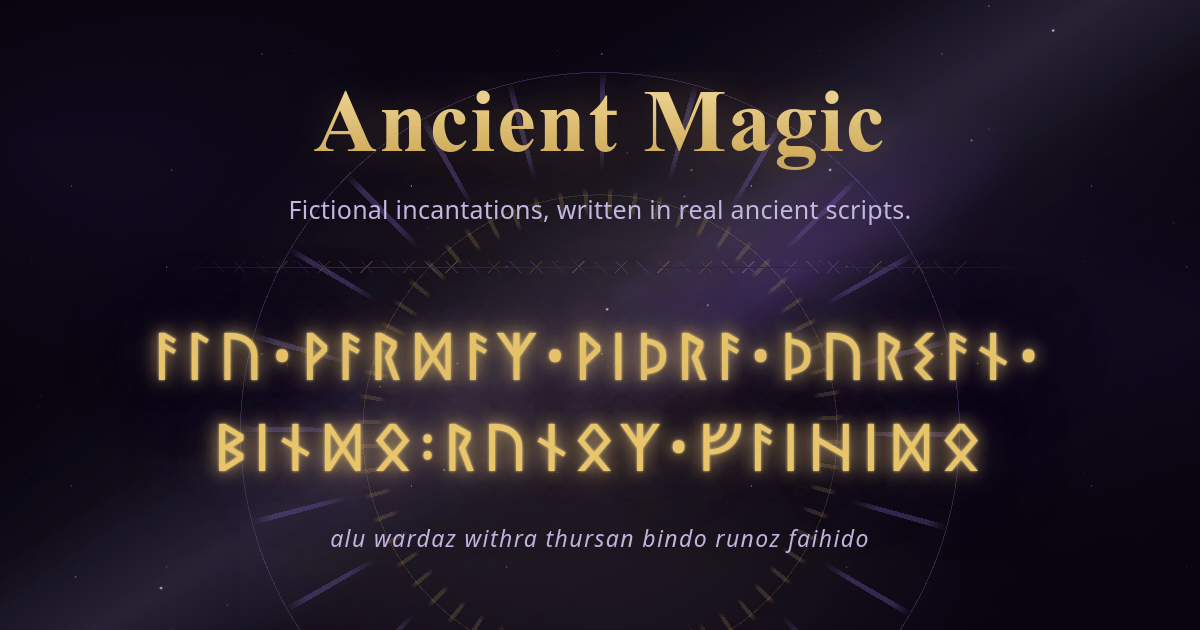
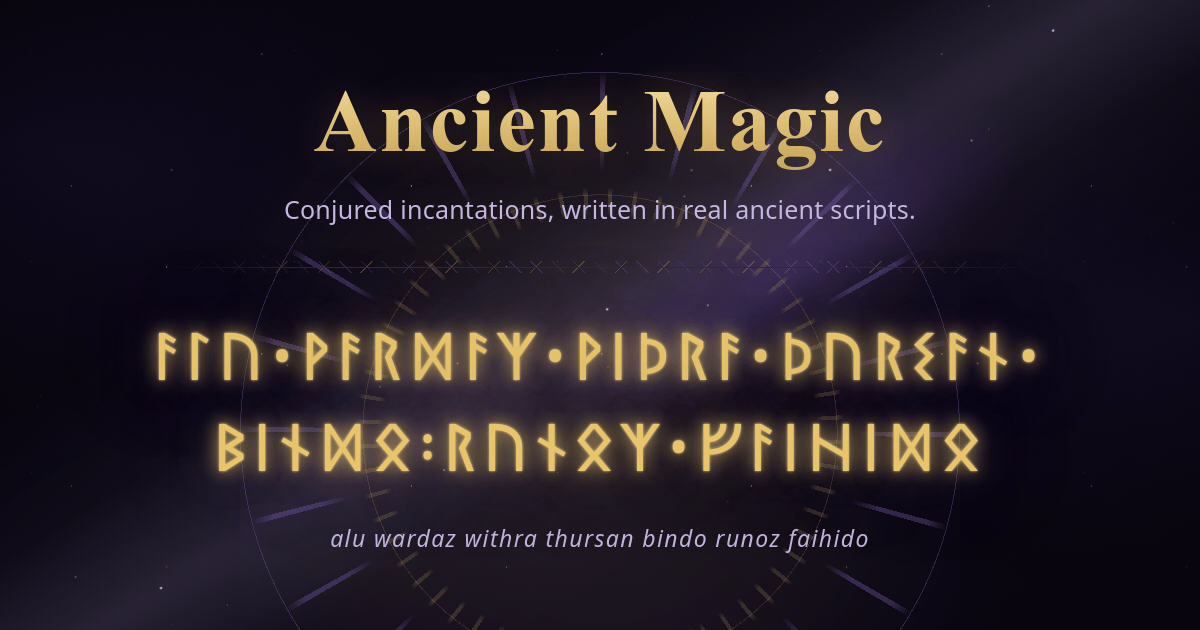
🐛 fix: conjured replaces fictional in the promise and titles

Changed region(s): [[0.2467, 0.3016, 0.7708, 0.3619]]

diff --git a/pub/index.html b/pub/index.html
@@ -3,13 +3,13 @@
 <head>
 <meta charset="utf-8">
 <meta name="viewport" content="width=device-width, initial-scale=1">
-<title>Ancient Magic, fictional incantations in real ancient scripts</title>
+<title>Ancient Magic, conjured incantations in real ancient scripts</title>
 <meta name="description" content="Pick a script, a school of magic and a difficulty, then read a fictional incantation written in real ancient glyphs, with its transliteration and a plain-language gloss.">
 <link rel="canonical" href="https://ancientmagic.iglou.eu/">
 <meta name="theme-color" content="#0B0714">
 
 <meta property="og:site_name" content="Ancient Magic">
-<meta property="og:title" content="Ancient Magic, fictional incantations in real ancient scripts">
+<meta property="og:title" content="Ancient Magic, conjured incantations in real ancient scripts">
 <meta property="og:description" content="Pick a script, a school of magic and a difficulty, then read a fictional incantation written in real ancient glyphs, with its transliteration and a plain-language gloss.">
 <meta property="og:type" content="website">
 <meta property="og:url" content="https://ancientmagic.iglou.eu/">
@@ -21,7 +21,7 @@
 <meta property="og:image:alt" content="The Ancient Magic wordmark in gold over a dark violet starfield, above a glowing runic incantation and its transliteration.">
 
 <meta name="twitter:card" content="summary_large_image">
-<meta name="twitter:title" content="Ancient Magic, fictional incantations in real ancient scripts">
+<meta name="twitter:title" content="Ancient Magic, conjured incantations in real ancient scripts">
 <meta name="twitter:description" content="Pick a script, a school of magic and a difficulty, then read a fictional incantation written in real ancient glyphs, with its transliteration and a plain-language gloss.">
 <meta name="twitter:image" content="https://ancientmagic.iglou.eu/og-image.png">
 <meta name="twitter:image:alt" content="The Ancient Magic wordmark in gold over a dark violet starfield, above a glowing runic incantation and its transliteration.">
@@ -55,7 +55,7 @@
 
   <header class="site-header">
     <h1 class="wordmark">Ancient Magic</h1>
-    <p class="promise">Fictional incantations, written in real ancient scripts.</p>
+    <p class="promise">Conjured incantations, written in real ancient scripts.</p>
   </header>
 
   <main class="main">
